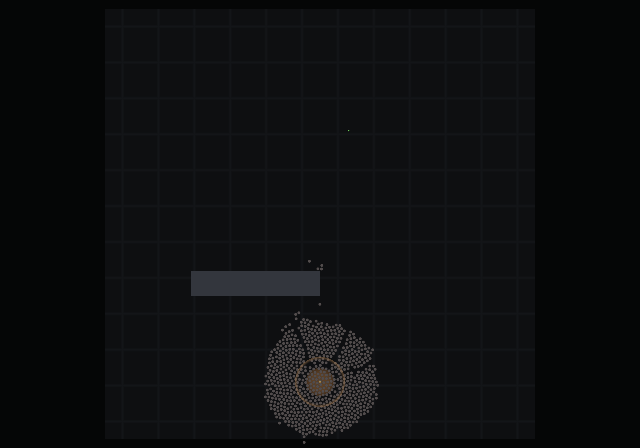
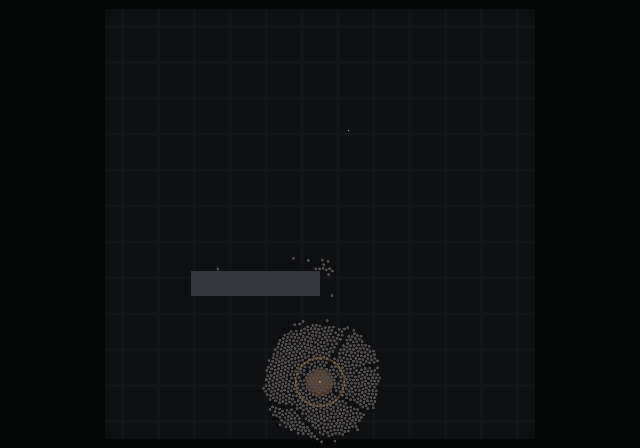
README: the jam, the scrum, and the road outliving the source
Three findings from watching the thing run, with the frames to show
them, plus the gallery scenario that produces them.

The jam at the obstacle's end is the best of the three.  Pheromone is
laid per distance walked, and the distance counted is the step the ant
ATTEMPTS -- read before collision resolution pushes it back out of
whatever it walked into.  That is the opposite choice from path
integration, which uses actual net displacement, and both are right:
path integration is about where the ant is, deposition is about walking
effort, and an ant shoving against a crowd is still walking with its
gaster down.

The consequence is a feedback loop nobody wrote.  Laden ants queueing at
the bottleneck keep marking while barely advancing, so the congested spot
is laid down more heavily than open trail; the stronger mark recruits
more ants to exactly the spot they are already stuck at; the queue grows.
Congestion and recruitment are separate rules that know nothing about
each other, and the geometry of a rectangle closes the loop between them.

That choice had been an accident of where x2/y2 are read.  It is now
deliberate and documented in both step.lisp and 3.3.

The collapse is now three frames rather than an aftermath, because the
interesting part is in between: following a trail and depositing on one
are separate rules, so when the source empties the traffic continues and
the renewal stops.  Measured: trail 113 163 at the moment the source runs
[…]

Changed region(s): [[0.4062, 0.7188, 0.5938, 1.0], [0.5, 0.5938, 0.5312, 0.625]]

diff --git a/README.md b/README.md
@@ -57,9 +57,50 @@ On the surviving road, traffic runs both ways at once.
 *Outbound ants are pale, laden returners warm orange, and the few red ones no
 longer have the energy to leave the nest. Zoomed to 18 cm.*
 
-Crowding at the nest is not modelled either — it is the same non-overlap rule
-that stops ants walking through walls, applied to a hundred ants arriving at one
-entrance.
+### A traffic jam that feeds itself
+
+This is the best thing in the simulation, and nothing in the model is aware of
+any part of it.
+
+The route has to squeeze past the end of the obstacle. Ants collide there,
+because ants are discs that cannot overlap — the same rule that stops them
+walking through walls. So a **bulb** of jammed ants forms at the corner.
+
+![The jam at the obstacle's end](docs/images/07-jam.png)
+
+*The obstacle's right-hand end. Note the ants pressed flat along its top edge:
+they hit the wall and slide. Zoomed to 13 cm.*
+
+Now the part that makes it interesting. Pheromone is laid **per distance
+walked**, and the distance counted is the step the ant *attempts* — an ant
+shoving against a crowd is still walking, gaster still touching down, even
+though the collision pass pushes it back. So the ants stuck in that queue go on
+marking while barely advancing.
+
+The jam therefore lays itself down more heavily than open trail. That stronger
+mark recruits more ants to precisely the spot they are already stuck at, which
+makes the queue longer, which lays more pheromone.
+
+Congestion and recruitment are two separate rules that were never written to
+know about each other, and here the geometry of a rectangle closes a feedback
+loop between them. Nobody scripted a bottleneck. There is no bottleneck in the
+model; there is a rectangle and a rule about discs not overlapping.
+
+(Path integration makes the opposite choice — it uses the ant's *actual* net
+displacement, because that one is about where the ant really is. Both are
+right, for different reasons.)
+
+The same collision rule produces the scrum at the source, where arriving ants
+compete for an edge that gets **shorter as the pile goes down** — a depleting
+source physically supports fewer feeding ants at once.
+
+![Competition at the source](docs/images/08-crowd.png)
+
+*Ants packed around the green source, laden ones already turning for home
+against the incoming stream. Zoomed to 13 cm.*
+
+Crowding at the nest is the same rule again, applied to a few hundred ants
+arriving at one entrance.
 
 ![The nest](docs/images/04-nest.png)
 
@@ -82,14 +123,14 @@ two different environments.
 
 ![Five seconds: no pheromone at all](docs/images/00-nothing.png)
 
-At **40 seconds** the total is 698 and one faint line runs from the food to the
+At **40 seconds** the total is 783 and one faint line runs from the food to the
 nest. That is the first ants home, laying the first pheromone.
 
 ![Forty seconds: the first thread](docs/images/01-searching.png)
 
 By **5 minutes** that thread has become a road — in fact two of them, which is
-the frame [above](#what-emerges). The total is 34 506 and the population has
-grown from 150 to 263: the first turn of the loop that drives everything after
+the frame [above](#what-emerges). The total is 73 282 and the population has
+grown from 150 to 267: the first turn of the loop that drives everything after
 it, where food comes in, workers are made, and more workers thicken the trail.
 
 Everything in the pictures above grew from those first ants, by the ants' own
@@ -98,17 +139,49 @@ stronger is stronger.
 
 ## How it ends
 
-The source in this scenario is finite, and an hour is long enough to empty it.
-What follows is not scripted either. The source shrinks as it is eaten — its
-collision circle with it, so a dwindling pile physically supports fewer feeding
-ants and the queue behind it lengthens. Then the crop stops filling, foragers
-come home with nothing, and the nest's stock runs down.
+The source in this scenario is finite, and it runs out after **24 minutes**.
+What happens over the next six is the part worth watching.
 
-What the colony does next is the part worth watching. As the larder empties, the
+### The road outlives the source
+
+At the moment the source empties, the trail is at full strength — 113 163 units
+— and the colony is still pouring ants onto it.
+
+![The source has just run out](docs/images/09-abandoned.png)
+
+Following a trail and depositing on one are **separate rules**. An ant follows
+whatever pheromone is in front of it; an ant deposits only when it is carrying
+food. So the traffic continues and the renewal stops, and evaporation starts
+taking the road out from under the ants still walking it.
+
+**Two minutes later** the trail is down to 15 470 — 86% gone — and the ants are
+still packed along the line where it was, including a knot where the food used
+to be. Not one of them is orange, because there is nothing left to carry.
+
+![Two minutes on: walking a road that is dissolving](docs/images/10-fading.png)
+
+**Six minutes** and it is 283, from 113 163. The structure is simply gone, and
+with it every trace of where the food had been. The colony disperses back into
+the random walk it started with — and the red ants are the ones that no longer
+have the reserve to try again.
+
+![Six minutes on: nothing left](docs/images/11-collapsed.png)
+
+The population is *rising* through all three frames — 733, 761, 787 — because
+the colony is still converting its stored food into workers while its road
+dissolves. It is at its largest a few minutes after it has already lost.
+
+That is evaporation doing the job it exists for. It is the only mechanism by
+which a colony can forget, and without it these ants would walk to an empty
+patch of ground for ever.
+
+### And then the colony
+
+As the larder runs down, the
 ants' **urge to forage rises**: departures get more frequent and foragers push
 deeper into their own reserve before turning back. The nest empties itself out
-of doors — at one point 595 of 655 ants are outside at once — they search, they
-find nothing, and they come home spent. By 60 minutes the population is **0**,
+of doors — at one point **589 of 667 ants are outside at once** — they search,
+they find nothing, and they come home spent. By 60 minutes the population is **0**,
 the trail has evaporated to **nothing at all**, and there is no pheromone left
 anywhere to say a road was ever there.
 
@@ -118,10 +191,6 @@ anywhere to say a road was ever there.
 — they came home to die. Nothing removes them, because nothing in the colony
 knows how yet: necrophoresis is a later milestone, and until it exists the dead
 stay where they fell.*
-
-That is evaporation earning its place in the model. It is the only mechanism by
-which a colony can forget, and without it the trail to an exhausted source would
-persist for ever and the ants would keep walking to nothing.
 
 Every image here is generated by `make gallery` from a fixed seed, so the
 documentation cannot drift away from what the simulation does.
@@ -135,6 +204,9 @@ Ants pinned along all four arena walls. Ants stranded with a full crop and a
 home vector reading zero. A shell of resting ants at a radius nothing explained.
 Newborns filing out to the left in a line. A food source that stayed fat and
 green while the colony starved next to it.
+
+The two below are the best of them, and neither left a mark on any number the
+program was printing at the time.
 
 The best of them is this one. **The colony could starve with the door shut.**
 
@@ -165,6 +237,40 @@ Exhausted ants are now drawn **red**, which is the other half of the fix: a nest
 filling with spent ants had been indistinguishable on screen from a nest full of
 ants declining to leave — and was read as exactly that, by a human watching.
 That is the whole argument for the window in one sentence.
+
+### Ants that left the nest backwards
+
+The eighth one, found the same way: ants returning from the food would set off
+again and wander off with no apparent plan.
+
+They were not wandering. Departure never set a heading, so an ant left with the
+heading it arrived on — and a returning ant steers *at* the nest, so that
+heading pointed **inward**. Every departing ant walked out through the entrance
+and straight on, away from everything it knew. Measured over 613 departures on
+an established trail:
+
+| | before | after |
+|---|---|---|
+| left within 15° of the source | **0.0%** | **34.3%** |
+| left more than 150° away | 36.9% | 2.4% |
+
+Not one ant in 613 left towards the food it had just come back from. "No plan"
+was generous; it was the worst available direction, chosen systematically.
+
+Each ant now remembers one bearing and sets off along it, scattered by about
+29°. The bearing is read off the ant's **own path integrator** at the moment it
+leaves a source — the home vector points from ant to nest, so its reverse is the
+nest→food bearing as that ant believes it. Nothing global is consulted. Only a
+trip that actually brought food back overwrites it, and a newborn's is random,
+which is what keeps the naive ants exploring.
+
+Fixing it exposed a bug of a rarer kind. The scatter was drawn from the same RNG
+stream as the *decision* to leave — and an ant only leaves when that draw comes
+out below 0.005. The normal draw is Box-Muller, `z = √(−2 ln u₁)·cos(2πu₂)`, and
+it reuses that same `u₁`: conditioning on `u₁ < 0.005` forces `√(−2 ln u₁)` above
+3.2 every single time. Every ant left on a wild angle, deterministically. The
+draws look independent and are not — which is the one way a counter-based RNG
+can still catch you out.
 
 ## Running it
 

diff --git a/docs/concept.md b/docs/concept.md
@@ -215,6 +215,16 @@ Both halves of that are load-bearing, and M1 had neither:
 - **By distance, not per tick.** A laden ant walks slower than an unladen
   one, so a per-tick deposit lays a *heavier* line for the same journey —
   trail strength would encode walking speed rather than traffic.
+  The distance counted is the step the ant **attempts**, read before
+  collision resolution pushes it back — the opposite choice from path
+  integration, which uses actual net displacement, and both are right.
+  Path integration is about where the ant *is*; deposition is about
+  walking effort, and an ant shoving against a crowd is still walking.
+  The consequence is visible at a bottleneck: queued laden ants keep
+  marking while barely advancing, so a congested spot is laid down more
+  heavily than open trail, and that mark recruits more ants into the
+  queue. Congestion and recruitment know nothing about each other; the
+  geometry closes the loop.
 - **As a spreading packet, not a single cell.** A one-cell mark is
   narrower than the span the antennae sample, so an ant could straddle its
   own trail with a sensor either side of it and read zero on both. The
